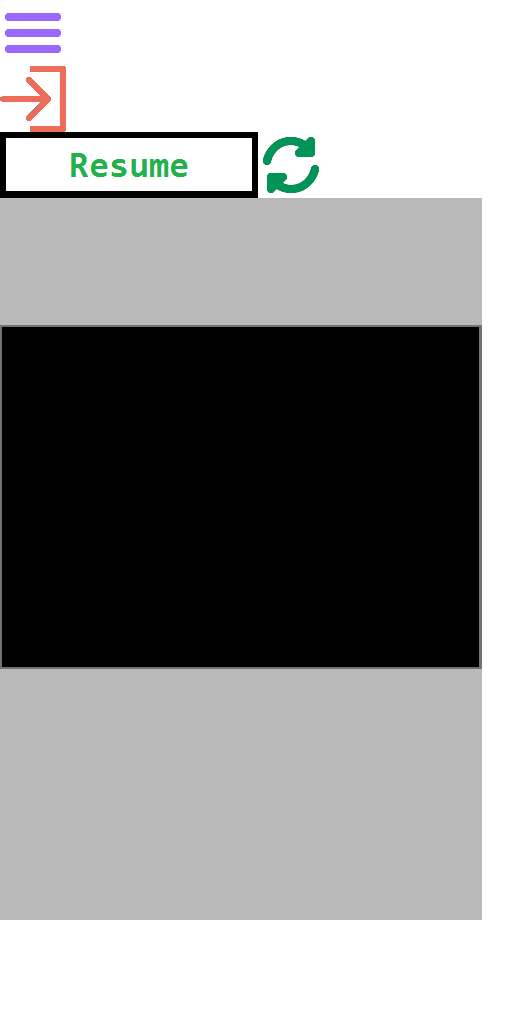
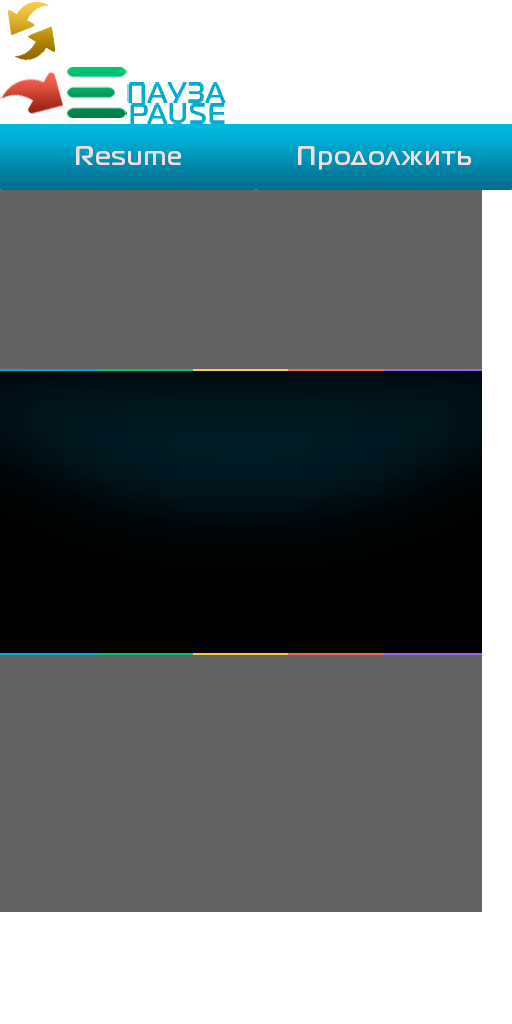
new cool textures for pause and start screen

diff --git a/influence/src/com/teremok/influence/screen/PausePanel.java b/influence/src/com/teremok/influence/screen/PausePanel.java
@@ -35,10 +35,11 @@ public class PausePanel extends Group {
     private static final String F5_CODE = "f5";
     private static final String EXIT_CODE = "exit";
 
-    ButtonColored resume;
+    ButtonTexture resume;
     ButtonTexture menu;
     ButtonTexture f5;
     ButtonTexture exit;
+    ButtonTexture pause;
 
     boolean loaded;
 
@@ -68,32 +69,31 @@ public class PausePanel extends Group {
         background = atlas.findRegion("background");
         Image backImage = new Image( new TextureRegionDrawable(background), Scaling.fit, Align.center );
         this.addActor(backImage);
-
+                                /*
         resume = new ButtonColored(RESUME_CODE, gameScreen.getFont(),
                 Drawer.getTextColor(), Drawer.getCellColorByType(0),
                 112f, 320f, 256f, 64f);
-        this.addActor(resume);
+        this.addActor(resume);*/
 
         TextureRegion menuRegion = atlas.findRegion("menu");
-        menu = new ButtonTexture(MENU_CODE, menuRegion, 112f, 416f);
+        menu = new ButtonTexture(MENU_CODE, menuRegion, 82f, 389f);
         this.addActor(menu);
 
         TextureRegion f5Region = atlas.findRegion("f5");
-        f5 = new ButtonTexture(F5_CODE, f5Region, 208, 416f);
+        f5 = new ButtonTexture(F5_CODE, f5Region, 216f, 389f);
         this.addActor(f5);
 
         TextureRegion exitRegion = atlas.findRegion("exit");
-        exit = new ButtonTexture(EXIT_CODE, exitRegion, 304f, 416f);
+        exit = new ButtonTexture(EXIT_CODE, exitRegion, 345f, 389f);
         this.addActor(exit);
 
-        BitmapFont bitmapFont = gameScreen.getFont();
-        String text = Localizator.getString("pause");
-        BitmapFont.TextBounds textBounds = bitmapFont.getBounds(text);
+        TextureRegion resumeRegion = atlas.findRegion("resume_" + Localizator.getLanguage());
+        resume = new ButtonTexture(RESUME_CODE, resumeRegion, 113f, 290f);
+        this.addActor(resume);
 
-        float centerX = gameScreen.WIDTH /2 - textBounds.width/2;
-        float Y = 480f + 142f / 2 - textBounds.height/2;
-        Label label = new Label("pause", bitmapFont, Drawer.getCellColorByType(0).cpy(), centerX, Y);
-        this.addActor(label);
+        TextureRegion pauseRegion = atlas.findRegion("pause_" + Localizator.getLanguage());
+        pause = new ButtonTexture("-1", pauseRegion, 191f, 493f);
+        this.addActor(pause);
 
         this.addListener(new InputListener(){
             @Override

diff --git a/influence/src/com/teremok/influence/screen/StartScreen.java b/influence/src/com/teremok/influence/screen/StartScreen.java
@@ -18,8 +18,10 @@ import com.badlogic.gdx.scenes.scene2d.utils.Align;
 import com.badlogic.gdx.scenes.scene2d.utils.TextureRegionDrawable;
 import com.badlogic.gdx.utils.Scaling;
 import com.teremok.influence.model.GameType;
+import com.teremok.influence.model.Localizator;
 import com.teremok.influence.ui.Button;
 import com.teremok.influence.ui.ButtonColored;
+import com.teremok.influence.ui.ButtonTexture;
 import com.teremok.influence.ui.ColoredPanel;
 import com.teremok.influence.util.FXPlayer;
 import com.teremok.influence.view.Animation;
@@ -54,20 +56,16 @@ public class StartScreen extends AbstractScreen {
         background.setAlign(Align.center);
         background.setTouchable(Touchable.disabled);
 
-        float centerX = getCenterX(256f);
-        ButtonColored singleplayer = new ButtonColored(
-                SINGLEPLAYER,
-                getFont(),
-                Drawer.getTextColor(),
-                Drawer.getCellColorByType(0),
-                centerX, 296f, 256f, 64f);
+        System.out.print(Localizator.getLanguage());
 
-        ButtonColored multiplayer = new ButtonColored(
-                MULTIPLAYER,
-                getFont(),
-                Drawer.getTextColor(),
-                Drawer.getCellColorByType(1),
-                centerX, 192f, 256f,  64f);
+        ButtonTexture singleplayer = new ButtonTexture(SINGLEPLAYER,
+                atlas.findRegion(SINGLEPLAYER + "_" + Localizator.getLanguage()),
+                        115f, 269f);
+
+
+        ButtonTexture multiplayer = new ButtonTexture(MULTIPLAYER,
+                atlas.findRegion(MULTIPLAYER + "_" + Localizator.getLanguage()),
+                115f, 192f);
 
         overlap = new ColoredPanel(Color.BLACK, 0, 0, WIDTH, HEIGHT);
         overlap.setTouchable(Touchable.disabled);

diff --git a/influence/src/com/teremok/influence/model/Localizator.java b/influence/src/com/teremok/influence/model/Localizator.java
@@ -8,8 +8,8 @@ import java.util.Map;
  */
 public class Localizator {
 
-    public static final String LANGUAGE_RUSSIAN = "russian";
-    public static final String LANGUAGE_ENGLISH = "english";
+    public static final String LANGUAGE_RUSSIAN = "ru";
+    public static final String LANGUAGE_ENGLISH = "en";
 
     private static String language;
 

diff --git a/influence/src/com/teremok/influence/Influence.java b/influence/src/com/teremok/influence/Influence.java
@@ -13,6 +13,8 @@ public class Influence extends Game {
         String language = locale.getLanguage();
         if (language.equals("ru") || language.equals("uk")) {
             Localizator.setRussianLanguage();
+        }  else {
+            Localizator.setEnglishLanguage();
         }
     }
 
